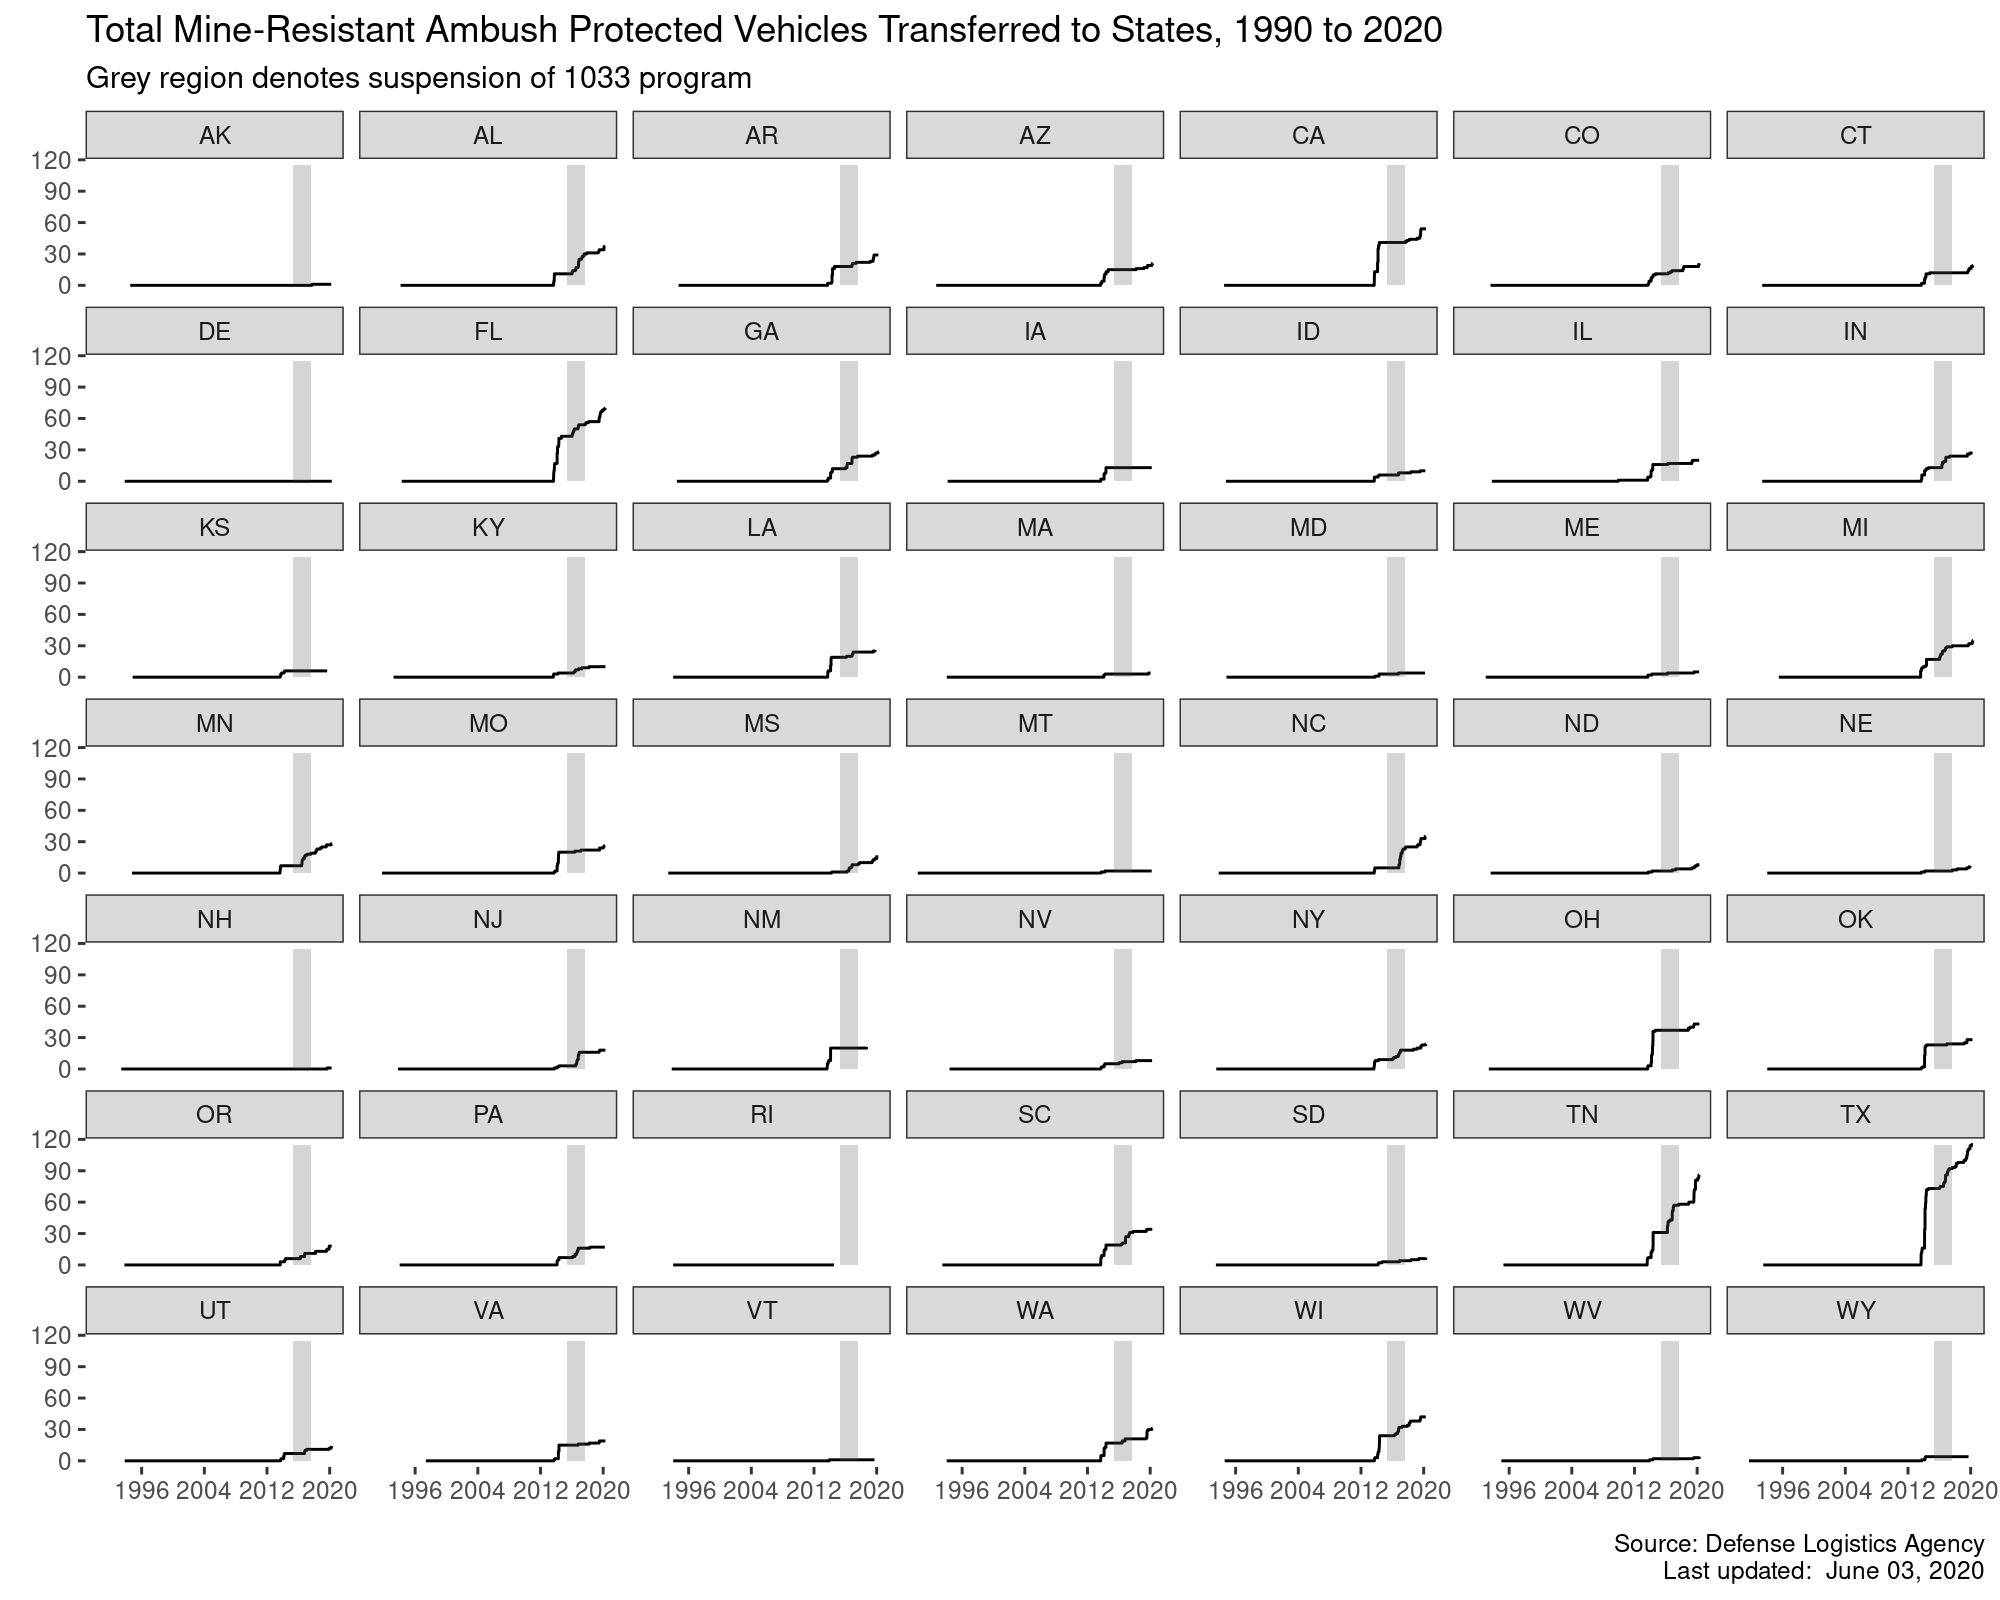
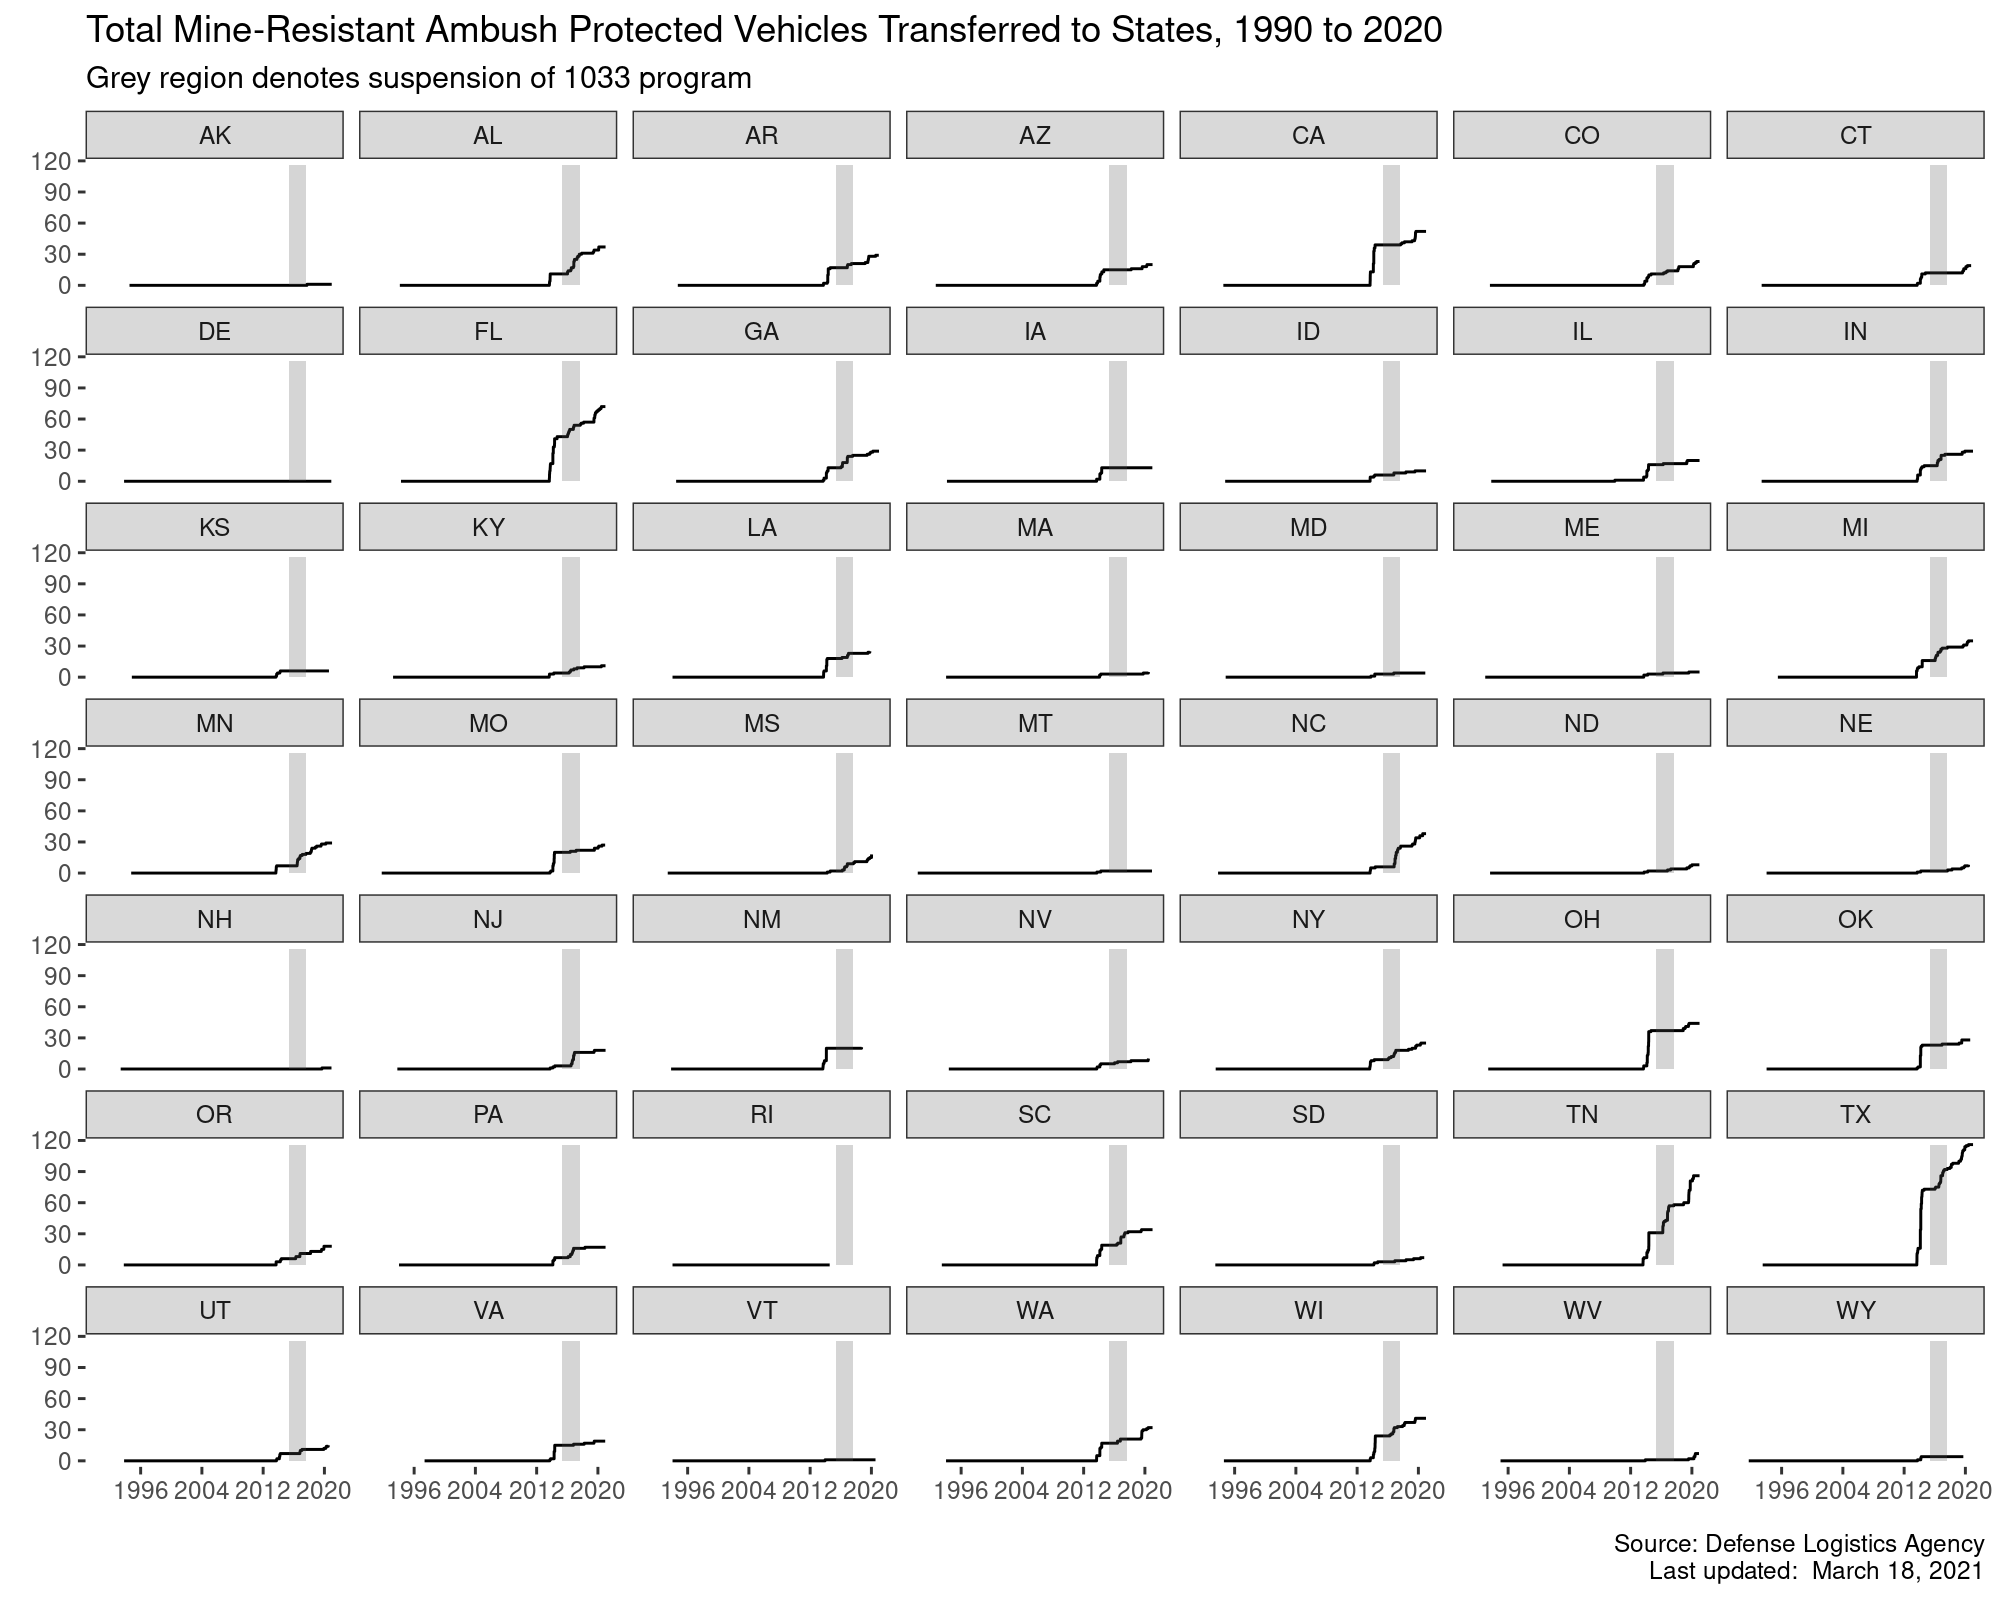
update MRAP tracking post

diff --git a/_posts/2020-06-03-visualizing-militarization.md b/_posts/2020-06-03-visualizing-militarization.md
@@ -35,7 +35,7 @@ Given the extreme threat they were designed to survive, MRAPs are
 emblematic of increasing police militarization in the US. But how did
 police come to own these military-grade vehicles?
 
-# Where have all the MRAPs gone?
+## Where have all the MRAPs gone?
 
 Police departments, sheriff’s offices, and even school districts (the LA
 Unified School District [briefly owned an
@@ -56,8 +56,8 @@ agencies.
 The 1033 program received increased [public
 scrutiny](https://www.newsweek.com/how-americas-police-became-army-1033-program-264537)
 after the highly militarized response to protests in Ferguson, MO after
-the killing of Michael Brown by Darren Wilson in 2014.
-Scholars have found a [positive
+the killing of Michael Brown by Darren Wilson in 2014. Scholars have
+found a [positive
 relationship](https://journals.sagepub.com/doi/full/10.1177/2053168017712885)
 between 1033 transfers and police killings.
 
@@ -106,9 +106,9 @@ plot marks the suspension of the 1033 program from 2014 to 2017. While
 some states like Connecticut and New Mexico demonstrate a freeze in
 transfers during this period, others like Tennessee and New Jersey
 continued to receive multiple vehicles. To date, the state that has
-received the most MRAPs is Texas with a whopping 115 vehicles.
+received the most MRAPs is Texas with a whopping 116 vehicles.
 
-# Thinking about the future
+## Thinking about the future
 
 This isn’t a one-time issue limited to the current aggressive police
 response to peaceful protest across the US; it’s a longer-running issue
@@ -128,7 +128,7 @@ releases new data on transfers to civilian agencies. It will serve as a
 way to continue to monitor the ongoing transfer of military hardware to
 civilian law enforcement agencies.
 
-# Coda
+## Coda
 
 I like to think of myself as pretty in-the-know when it comes to police
 militarization in the US. I study state-based violence and repression
@@ -137,7 +137,7 @@ police forces for over a decade now. I still learned something new while
 writing this post. The US MRAP program was inspired by the
 [Casspir](https://en.wikipedia.org/wiki/Casspir) (see Guardia, Mike. 20
 November, 2013. *US Army and Marine Corps MRAPs: Mine Resistant Ambush
-Protected Vehicles*. Osprey Publishing. ISBN 978-1-78096-255-9., p. 4),
+Protected Vehicles*. Osprey Publishing. ISBN 978-1-78096-255-9., p. 4),
 a vehicle developed by Apartheid South Africa based on their experiences
 in the [South African Border
 War](https://en.wikipedia.org/wiki/South_African_Border_War) and
